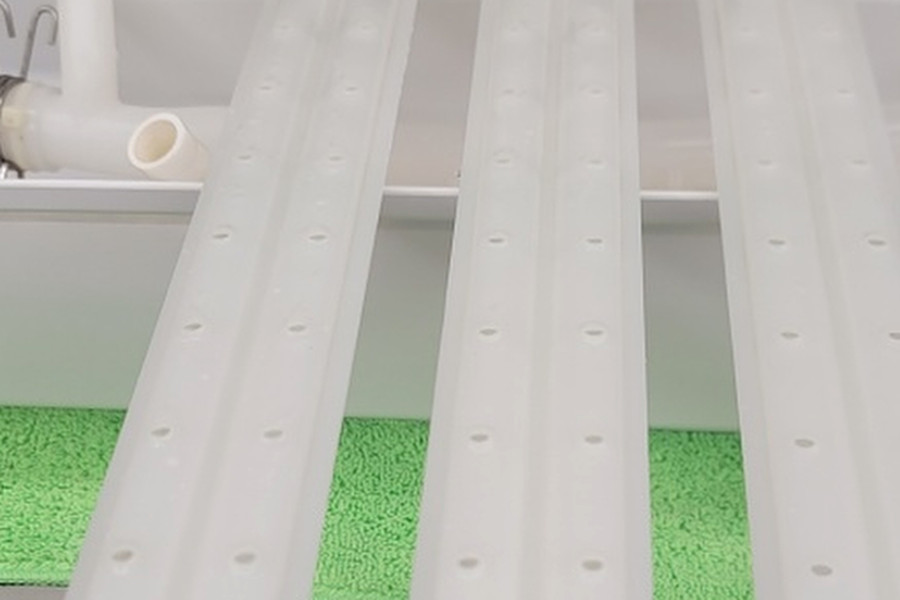
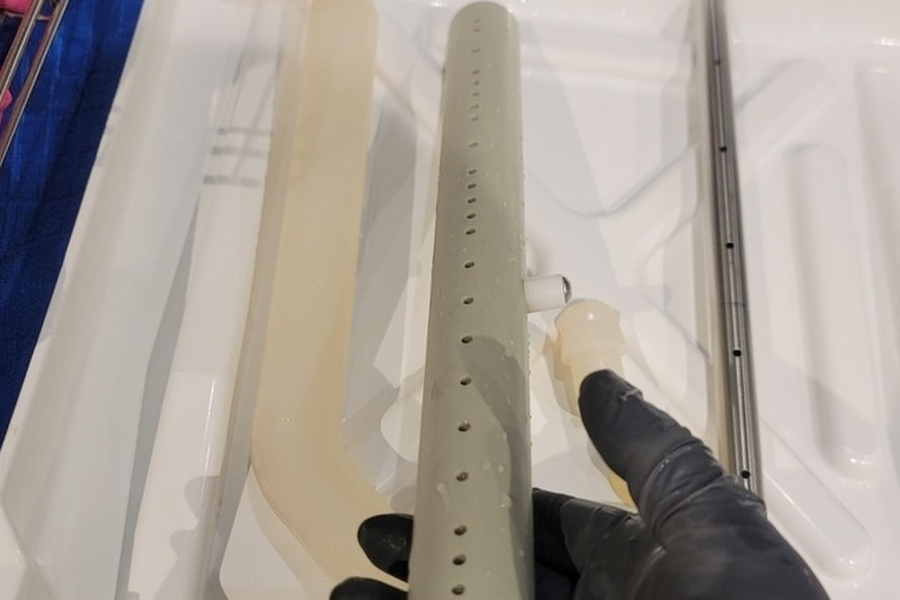
fix: PC 공정영상 자동재생 보강, B&A 잔여 포트폴리오 태그 철거 및 5번 분사노즐 1:1 동일부품 실사진 교체

diff --git a/index.html b/index.html
@@ -1735,10 +1735,11 @@
       .ba-slider-wrap { height: clamp(340px, 46vw, 520px); }
       .ba-instance .ba-nav-tabs { gap: 8px; }
       .ba-instance .ba-nav-tab { padding: 11px 18px; font-size: 14px; border-radius: 999px; letter-spacing: -.01em; }
-      .ba-cap { margin: 20px auto 0; max-width: 780px; text-align: center; font-size: 15.5px; color: var(--muted); line-height: 1.7; }
-      .ba-cap strong { display: block; margin-bottom: 6px; font-size: 17px; font-weight: 800; color: var(--navy); }
-      .ba-stats { display: flex; justify-content: center; flex-wrap: wrap; gap: 8px; margin-top: 14px; }
-      .ba-stat { font-size: 12.5px; font-weight: 800; border-radius: 999px; padding: 6px 13px; background: var(--surface); border: 1px solid var(--line); color: var(--blue-strong); }
+      .ba-cap { margin: 24px auto 0; max-width: 780px; text-align: center; font-size: 15.5px; color: var(--muted); line-height: 1.7; }
+      .ba-cap strong, .ba-cap-title { display: block; margin-bottom: 8px; font-size: 18px; font-weight: 800; color: var(--navy); line-height: 1.4; }
+      .ba-cap-desc { margin: 0 0 14px; font-size: 15.5px; color: var(--muted); line-height: 1.7; }
+      .ba-stats { display: flex; justify-content: center; flex-wrap: wrap; gap: 10px; margin-top: 14px; }
+      .ba-stat { font-size: 13px; font-weight: 800; border-radius: 999px; padding: 6px 14px; background: var(--surface); border: 1px solid var(--line); color: var(--blue-strong); display: inline-flex; align-items: center; }
       .ba-stat.bad { color: #b83b3b; background: #fdf1f1; border-color: #f2d6d6; }
       .ba-instance .ba-slider-handle { font-size: 13px; letter-spacing: .06em; }
       @media (max-width: 700px) {
@@ -2464,81 +2465,10 @@
             </div>
 
             <div class="ba-cap" id="baCaption">
-              <strong>증발기 · 제빙 냉판 격자</strong>얼음이 얼어붙는 냉판 위 격자(제빙 셀)입니다. 수돗물의 칼슘·마그네슘이 물방울마다 마르며 격자 틈에 하얗게 굳고, 그 위로 물때와 녹물이 눌러앉아 얼음이 잘 떨어지지 않습니다. 약제로 석회를 불려 탈거한 뒤 고압 스팀으로 틈새까지 밀어내면 사진처럼 스테인리스 은백색 격자가 그대로 드러납니다.
-              <div class="ba-stats"><span class="ba-stat bad">석회 · 물때 두껍게 고착</span><span class="ba-stat">은백색 격자 복원</span></div>
+              <strong class="ba-cap-title">증발기 · 제빙 냉판 격자</strong>
+              <p class="ba-cap-desc">얼음이 얼어붙는 냉판 위 격자(제빙 셀)입니다. 수돗물의 칼슘·마그네슘이 물방울마다 마르며 격자 틈에 하얗게 굳고, 그 위로 물때와 녹물이 눌러앉아 얼음이 잘 떨어지지 않습니다. 약제로 석회를 불려 탈거한 뒤 고압 스팀으로 틈새까지 밀어내면 사진처럼 스테인리스 은백색 격자가 그대로 드러납니다.</p>
+              <div class="ba-stats"><span class="ba-stat bad">청소 전: 석회 · 물때 두껍게 고착</span><span class="ba-stat">청소 후: 은백색 격자 복원</span></div>
             </div>
-          </div>
-
-          <!-- 업종별 탭 -->
-          <div class="pf-tabs" id="pfTabs">
-            <button class="pf-tab active" data-filter="all">전체보기</button>
-            <button class="pf-tab" data-filter="cafe">프랜차이즈 카페</button>
-            <button class="pf-tab" data-filter="bakery">베이커리·디저트</button>
-            <button class="pf-tab" data-filter="hotel">호텔·음식점</button>
-          </div>
-
-          <!-- 포트폴리오 그리드 (6개 대표 카드 : 실제 사진 부품 형상 1:1 일치) -->
-          <div class="pf-grid" id="pfGrid">
-            <div class="pf-card" data-cat="cafe" tabindex="0">
-              <div class="pf-img-wrap"><img src="assets/cleaning2.jpg" alt="얼음 배출 슬라이드 부품 고온 스팀 살균 현장" loading="lazy" /><span class="pf-badge">프랜차이즈 카페</span>
-              </div>
-              <div class="pf-body">
-                <div class="pf-brand">얼음 배출 가이드 부품 · 일산 카페</div>
-                <h4>얼음 슬라이드 탈거 부품 고온 스팀 살균</h4>
-              </div>
-                <div class="pf-reveal" aria-hidden="true"><span class="pf-rk">FIELD NOTE 01</span><strong class="pf-rt">얼음 슬라이드 탈거 부품 고온 스팀 살균</strong><p>매일 얼음이 닿으며 미끄러져 내려오는 투명 얼음 슬라이드 부품을 완전 탈거하여, 좁은 격자 틈새의 미세 물때와 곰팡이를 120℃ 고온 스팀 노즐로 박멸 세척했습니다.</p><span class="pf-go">현장 사진 전체보기 →</span></div>
-            </div>
-            <div class="pf-card" data-cat="bakery" tabindex="0">
-              <div class="pf-img-wrap"><img src="assets/cleaning-open.jpg" alt="제빙기 하부 기계실 개방 및 배관 점검 현장" loading="lazy" /><span class="pf-badge">대형 베이커리</span>
-              </div>
-              <div class="pf-body">
-                <div class="pf-brand">하부 기계실 · 남양주 베이커리</div>
-                <h4>하부 패널 개방 및 핵심 냉매 배관 정밀 점검</h4>
-              </div>
-                <div class="pf-reveal" aria-hidden="true"><span class="pf-rk">FIELD NOTE 02</span><strong class="pf-rt">하부 패널 개방 및 핵심 냉매 배관 정밀 점검</strong><p>상단 대용량 저장고 아래 하부 전면 패널을 완전히 탈거하여 콤프레셔, 냉매 순환 구리 배관, 제어 기판 주변의 누수 및 진동 이음 부품을 정밀 점검했습니다.</p><span class="pf-go">현장 사진 전체보기 →</span></div>
-            </div>
-            <div class="pf-card" data-cat="hotel" tabindex="0">
-              <div class="pf-img-wrap"><img src="assets/deep-clean.jpg" alt="저수조 전용 세척제 투입 및 순환 세척" loading="lazy" /><span class="pf-badge">호텔 라운지</span>
-              </div>
-              <div class="pf-body">
-                <div class="pf-brand">증발기 하부 저수조 · 광화문 호텔</div>
-                <h4>저수조 친환경 세정제 투입 및 냉판 순환 세척</h4>
-              </div>
-                <div class="pf-reveal" aria-hidden="true"><span class="pf-rk">FIELD NOTE 03</span><strong class="pf-rt">저수조 친환경 세정제 투입 및 냉판 순환 세척</strong><p>수직 제빙판 바로 아래 위치한 저수조 수조통에 친환경 규격 세정제를 정량 투입하고 워터펌프를 순환시켜 냉판 격자의 고착 석회질을 안전하게 용해 박리했습니다.</p><span class="pf-go">현장 사진 전체보기 →</span></div>
-            </div>
-            <div class="pf-card" data-cat="cafe" tabindex="0">
-              <div class="pf-img-wrap"><img src="assets/field-record.jpg" alt="언더카운터 제빙기 상판 탈거 분해 현장" loading="lazy" /><span class="pf-badge">로스터리 카페</span>
-              </div>
-              <div class="pf-body">
-                <div class="pf-brand">언더카운터 상판 탈거 · 성수 로스터리</div>
-                <h4>상판 분리 및 내부 증발기·냉각 라인 완전 노출</h4>
-              </div>
-                <div class="pf-reveal" aria-hidden="true"><span class="pf-rk">FIELD NOTE 04</span><strong class="pf-rt">상판 분리 및 내부 증발기·냉각 라인 완전 노출</strong><p>카운터 아래 매립된 제빙기의 상판과 전면 커버를 모두 분해하여, 평소 접근이 불가능했던 내부 단열 프레임과 냉각 유로 배관 전체를 정밀 세척 가능한 상태로 개방했습니다.</p><span class="pf-go">현장 사진 전체보기 →</span></div>
-            </div>
-            <div class="pf-card" data-cat="hotel" tabindex="0">
-              <div class="pf-img-wrap"><img src="assets/visit.jpg" alt="제빙실 물커튼 패널 개방 및 내부 유로 세척" loading="lazy" /><span class="pf-badge">레스토랑 & 펍</span>
-              </div>
-              <div class="pf-body">
-                <div class="pf-brand">물커튼 도어 개방 · 강남 라운지</div>
-                <h4>물커튼 슬라이드 개방 및 제빙실 내부 유로 세척</h4>
-              </div>
-                <div class="pf-reveal" aria-hidden="true"><span class="pf-rk">FIELD NOTE 05</span><strong class="pf-rt">물커튼 슬라이드 개방 및 제빙실 내부 유로 세척</strong><p>얼음이 생성되어 떨어지는 내부의 대형 물커튼(슬라이드 배플) 도어를 들어 올려, 안쪽 저수조와 물 흐름 유로 전반에 형성된 물때 침전물을 꼼꼼히 세척했습니다.</p><span class="pf-go">현장 사진 전체보기 →</span></div>
-            </div>
-            <div class="pf-card" data-cat="bakery" tabindex="0">
-              <div class="pf-img-wrap"><img src="assets/ice-cubes.jpg" alt="세척 후 최종 제빙된 깨끗한 각얼음 검증" loading="lazy" /><span class="pf-badge">디저트 카페</span>
-              </div>
-              <div class="pf-body">
-                <div class="pf-brand">최종 제빙 품질 · 의정부 디저트</div>
-                <h4>완전 조립 후 투명하고 단단한 각얼음 제빙 검증</h4>
-              </div>
-                <div class="pf-reveal" aria-hidden="true"><span class="pf-rk">FIELD NOTE 06</span><strong class="pf-rt">완전 조립 후 투명하고 단단한 각얼음 제빙 검증</strong><p>분해 세척과 고압 헹굼을 마친 후 현장에서 제빙기를 정상 재가동하여 기포나 이물질 없이 맑고 단단한 식용 각얼음이 만들어지는지 투명도와 모양을 최종 검수했습니다.</p><span class="pf-go">현장 사진 전체보기 →</span></div>
-            </div>
-          </div>
-
-          <div style="text-align:center;margin-top:36px;">
-            <a href="#/photos" class="btn" style="background:var(--navy);color:#ffffff;padding:14px 28px;border-radius:10px;font-weight:800;text-decoration:none;font-size:15px;display:inline-flex;align-items:center;gap:8px;box-shadow:0 6px 18px rgba(8,38,63,0.18);">
-              현장 사진 갤러리 전체보기 (100+ 사례) →
-            </a>
           </div>
         </div>
       </section>
@@ -3683,10 +3613,10 @@
           },
           {
             title: "물 분배기 · 분사 노즐 파이프",
-            desc: "제빙판 위로 물을 고르게 뿌리는 분사 노즐 파이프입니다. 구멍마다 석회와 갈색 이물질이 끼어 막히면 물이 한쪽으로만 뿌려져 얼음이 기형으로 얼고 생산량도 줄어듭니다. 약제로 불려 구멍을 하나씩 뚫고 헹구면 다시 물이 고르게 퍼집니다.",
+            desc: "제빙판 위로 물을 고르게 뿌리는 분사 노즐 파이프입니다. 제빙기에서 완전히 탈거하여 확인하면 구멍마다 석회와 갈색 슬라임이 두껍게 끼어 막혀 있습니다. 전용 약제로 불려 구멍을 하나씩 뚫고 고압 세척하면 동일 부품의 분사 구멍이 완벽히 복원되어 얼음이 고르게 얼어붙습니다.",
             before: "assets/ba-nozzle-before.jpg",
             after: "assets/ba-nozzle-after.jpg",
-            stat: ["노즐 구멍 막힘", "분사 구멍 복원"]
+            stat: ["분사 구멍 석회·물때 막힘", "노즐 분사 구멍 완전 복원"]
           }
         ];
 
@@ -3701,9 +3631,10 @@
           if (b) { b.src = item.before; b.alt = item.title + ' 청소 전'; }
           if (a) { a.src = item.after; a.alt = item.title + ' 청소 후'; }
           if (cap) {
-            cap.innerHTML = '<strong>' + item.title + '</strong>' + item.desc +
-              (item.stat ? '<div class="ba-stats"><span class="ba-stat bad">청소 전 ' + item.stat[0] +
-                '</span><span class="ba-stat">청소 후 ' + item.stat[1] + '</span></div>' : '');
+            cap.innerHTML = '<strong class="ba-cap-title">' + item.title + '</strong>' +
+              '<p class="ba-cap-desc">' + item.desc + '</p>' +
+              (item.stat ? '<div class="ba-stats"><span class="ba-stat bad">청소 전: ' + item.stat[0] +
+                '</span><span class="ba-stat">청소 후: ' + item.stat[1] + '</span></div>' : '');
           }
         }
 

diff --git a/assets/js/clips.js b/assets/js/clips.js
@@ -56,6 +56,9 @@
 
   function ensure(v) {
     if (!v || v.tagName !== 'VIDEO' || !canPlay(v)) return;
+    v.muted = true;
+    v.defaultMuted = true;
+    v.playsInline = true;
     if (v.getAttribute('data-inview') === '0') return;   // 화면 밖 클립은 재생하지 않는다
     if (!v.paused) return;
     var p;
@@ -63,12 +66,10 @@
     if (p && p.catch) {
       p.catch(function () {
         v.setAttribute('data-need-play', '1');
-        if (v.getAttribute('data-inview') !== '0') {
-          var t = v.getAttribute('data-retry') | 0;
-          if (t < 1) {
-            v.setAttribute('data-retry', String(t + 1));
-            setTimeout(function () { ensure(v); }, 600);
-          }
+        var t = v.getAttribute('data-retry') | 0;
+        if (t < 2) {
+          v.setAttribute('data-retry', String(t + 1));
+          setTimeout(function () { ensure(v); }, 400);
         }
       });
     }
@@ -121,16 +122,22 @@
     });
   }
 
-  /* 자동재생이 막혔을 때 다시 시도할 수 있는 지점들 */
+  /* 자동재생이 막혔거나 PC 환경에서 스크롤/마우스 이동 시 즉시 재생 시도 */
+  var resumeTimer = null;
   function resumeAll() {
-    var list = document.querySelectorAll('video[src]');
-    for (var i = 0; i < list.length; i++) {
-      var v = list[i];
-      if (v.getAttribute('data-inview') === '0') continue;
-      if (v.paused) ensure(v);
-    }
+    if (resumeTimer) return;
+    resumeTimer = setTimeout(function () {
+      resumeTimer = null;
+      var list = document.querySelectorAll('video[src]');
+      for (var i = 0; i < list.length; i++) {
+        var v = list[i];
+        if (v.getAttribute('data-inview') === '0') continue;
+        if (v.paused) ensure(v);
+      }
+    }, 60);
   }
-  ['pointerdown', 'touchstart', 'keydown'].forEach(function (t) {
+  ['pointerdown', 'touchstart', 'keydown', 'scroll', 'wheel', 'mousemove'].forEach(function (t) {
+    window.addEventListener(t, resumeAll, { passive: true });
     document.addEventListener(t, resumeAll, { passive: true });
   });
   window.addEventListener('focus', resumeAll);
@@ -151,13 +158,14 @@
           var v = en.target;
           if (en.isIntersecting) {
             v.setAttribute('data-inview', '1');
+            v.muted = true;
             ensure(v);
           } else {
             v.setAttribute('data-inview', '0');
             if (!v.paused) { try { v.pause(); } catch (e) {} }
           }
         });
-      }, { threshold: 0.01, rootMargin: '120px 0px' });
+      }, { threshold: 0.001, rootMargin: '200px 0px' });
     }
     for (var i = 0; i < list.length; i++) {
       if (!list[i].getAttribute('data-io')) {
@@ -175,6 +183,11 @@
       var v = list[i];
       attach(v, v.getAttribute('data-stem'), v.getAttribute('data-poster'), v.getAttribute('aria-label'));
     }
+    var procImg = document.getElementById('procImg');
+    if (procImg && procImg.tagName === 'VIDEO' && !procImg.getAttribute('src')) {
+      attach(procImg, 'gif-steam', 'assets/gif-steam.jpg', '120℃ 고온 스팀 살균');
+    }
+    resumeAll();
     if (!started) {
       started = true;
       setInterval(observeAll, 1500);
